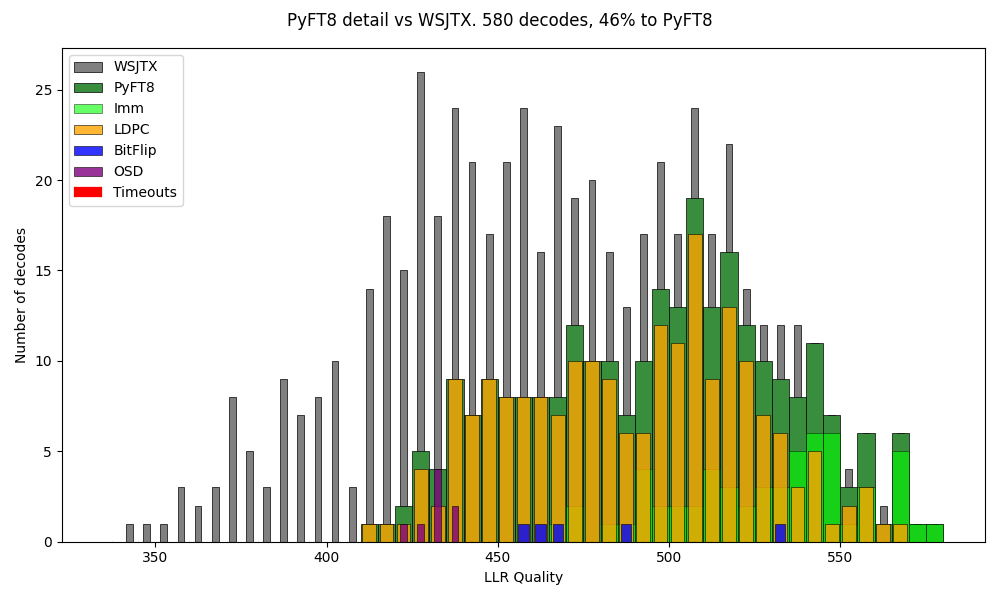
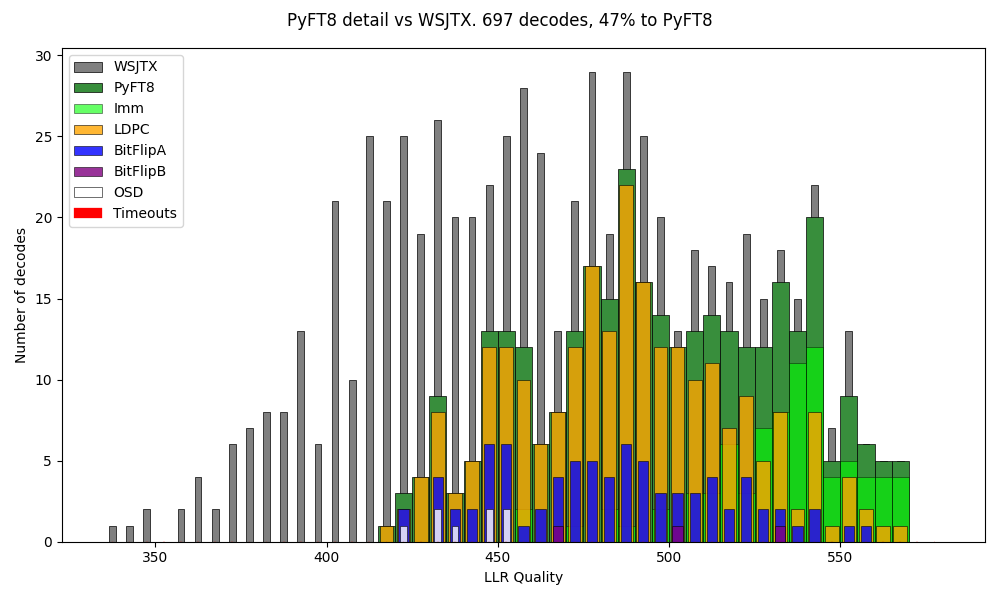
tuning snapshot

diff --git a/tests/test_plot.py b/tests/test_plot.py
@@ -2,7 +2,7 @@ import matplotlib.pyplot as plt
 import pandas as pd
 
 fig, axes = plt.subplots( figsize=(10,6))
-ws,py,pimm,pl,pb,po,pp,ft = [],[],[],[],[],[],[],[]
+ws,py,pimm,pl,pba,pbb,po,pp,ft = [],[],[],[],[],[],[],[],[]
 
 with open(f"compare_wsjtx.csv", "r") as f:
     for lfull in f.readlines():
@@ -15,7 +15,8 @@ with open(f"compare_wsjtx.csv", "r") as f:
             py.append(q)
             if(l[4:7]=='I00'): pimm.append(q)
             if("L" in l): pl.append(q)
-            if("B" in l): pb.append(q)
+            if("A" in l): pba.append(q)
+            if("B" in l): pbb.append(q)
             if("O" in l): po.append(q)
             if("P" in l): po.append(q)
         else:
@@ -37,10 +38,12 @@ axes.hist(pimm, bins = bins, label = "Imm", rwidth=1,
 
 axes.hist(pl, bins = bins, label = "LDPC", rwidth=0.8,
         color = 'orange', alpha = 0.8, lw=0.5, edgecolor = "black")
-axes.hist(pb, bins = bins, label = "BitFlip", rwidth=0.6,
+axes.hist(pba, bins = bins, label = "BitFlipA", rwidth=0.6,
         color = 'blue', alpha = 0.8, lw=0.5, edgecolor = "black")
-axes.hist(po, bins = bins, label = "OSD", rwidth=0.4,
+axes.hist(pbb, bins = bins, label = "BitFlipB", rwidth=0.6,
         color = 'purple', alpha = 0.8, lw=0.5, edgecolor = "black")
+axes.hist(po, bins = bins, label = "OSD", rwidth=0.4,
+        color = 'white', alpha = 0.8, lw=0.5, edgecolor = "black")
 
 
 axes.hist(ft, bins = bins, label = "Timeouts", rwidth=0.1,

diff --git a/PyFT8/cycle_manager.py b/PyFT8/cycle_manager.py
@@ -211,6 +211,12 @@ class Candidate:
     def invoke_actor(self):
 
 
+        counter = 3
+        if self.ncheck > 30 and not self.counters[counter] > 0:  
+            self.flip_bits(width = 50, nbits=1, keep_best = True)
+            self.counters[counter] += 1
+            return "A"
+
         counter = 0
         if 40 > self.ncheck > 0 and not self.counters[counter] > 10:  
             self.do_ldpc_iteration()
